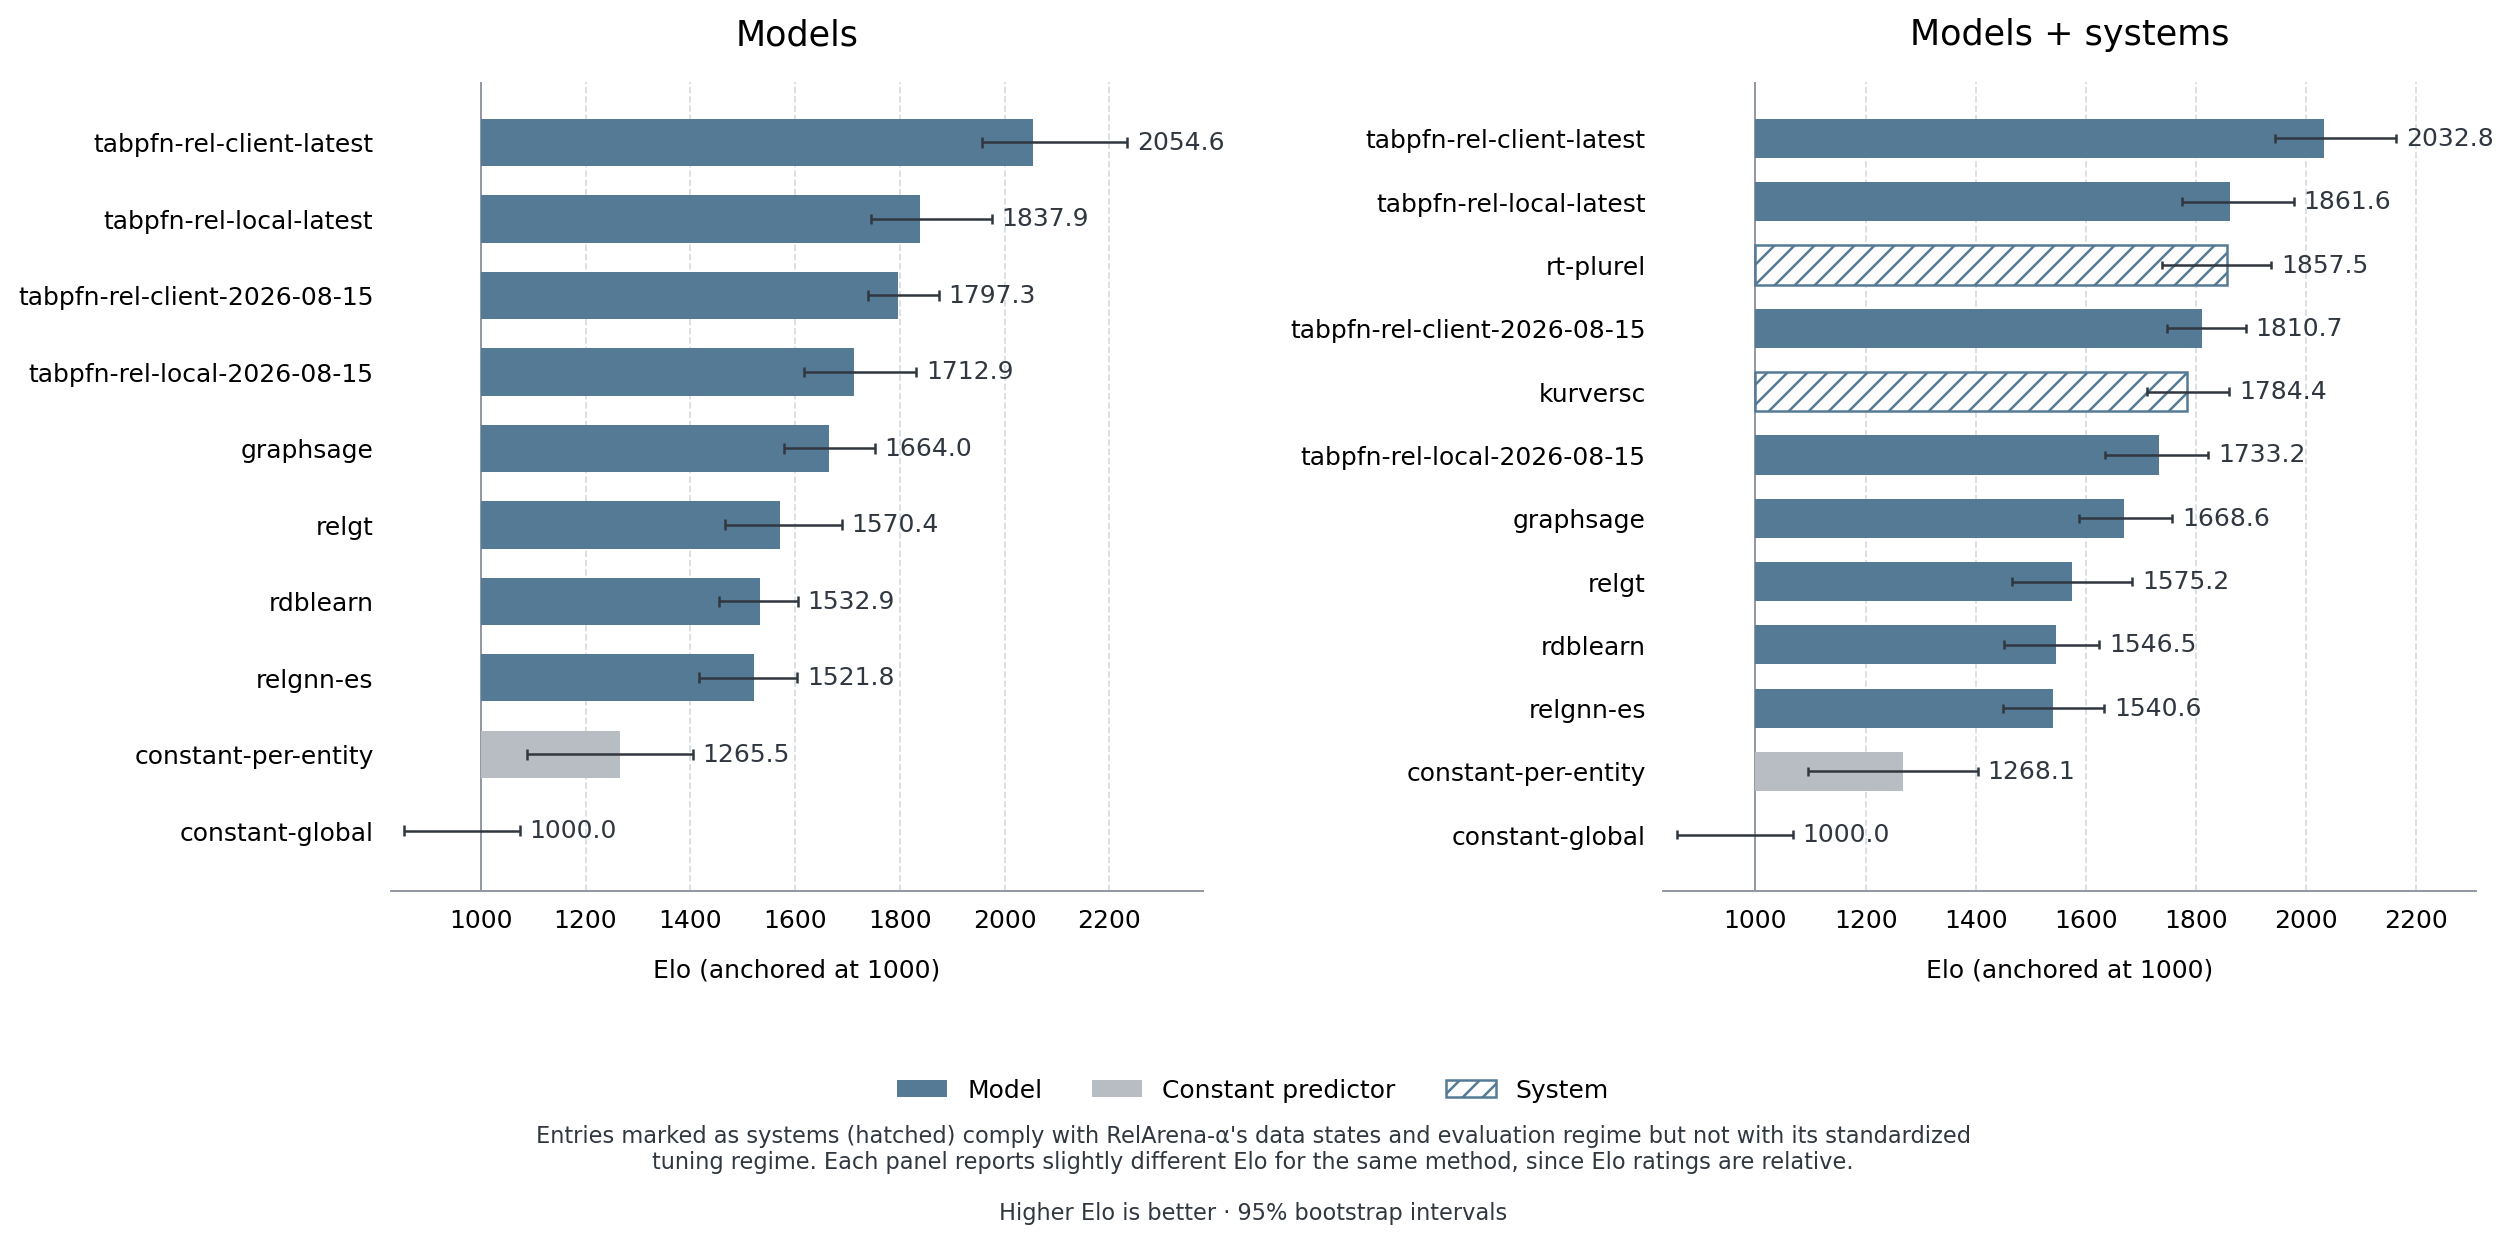
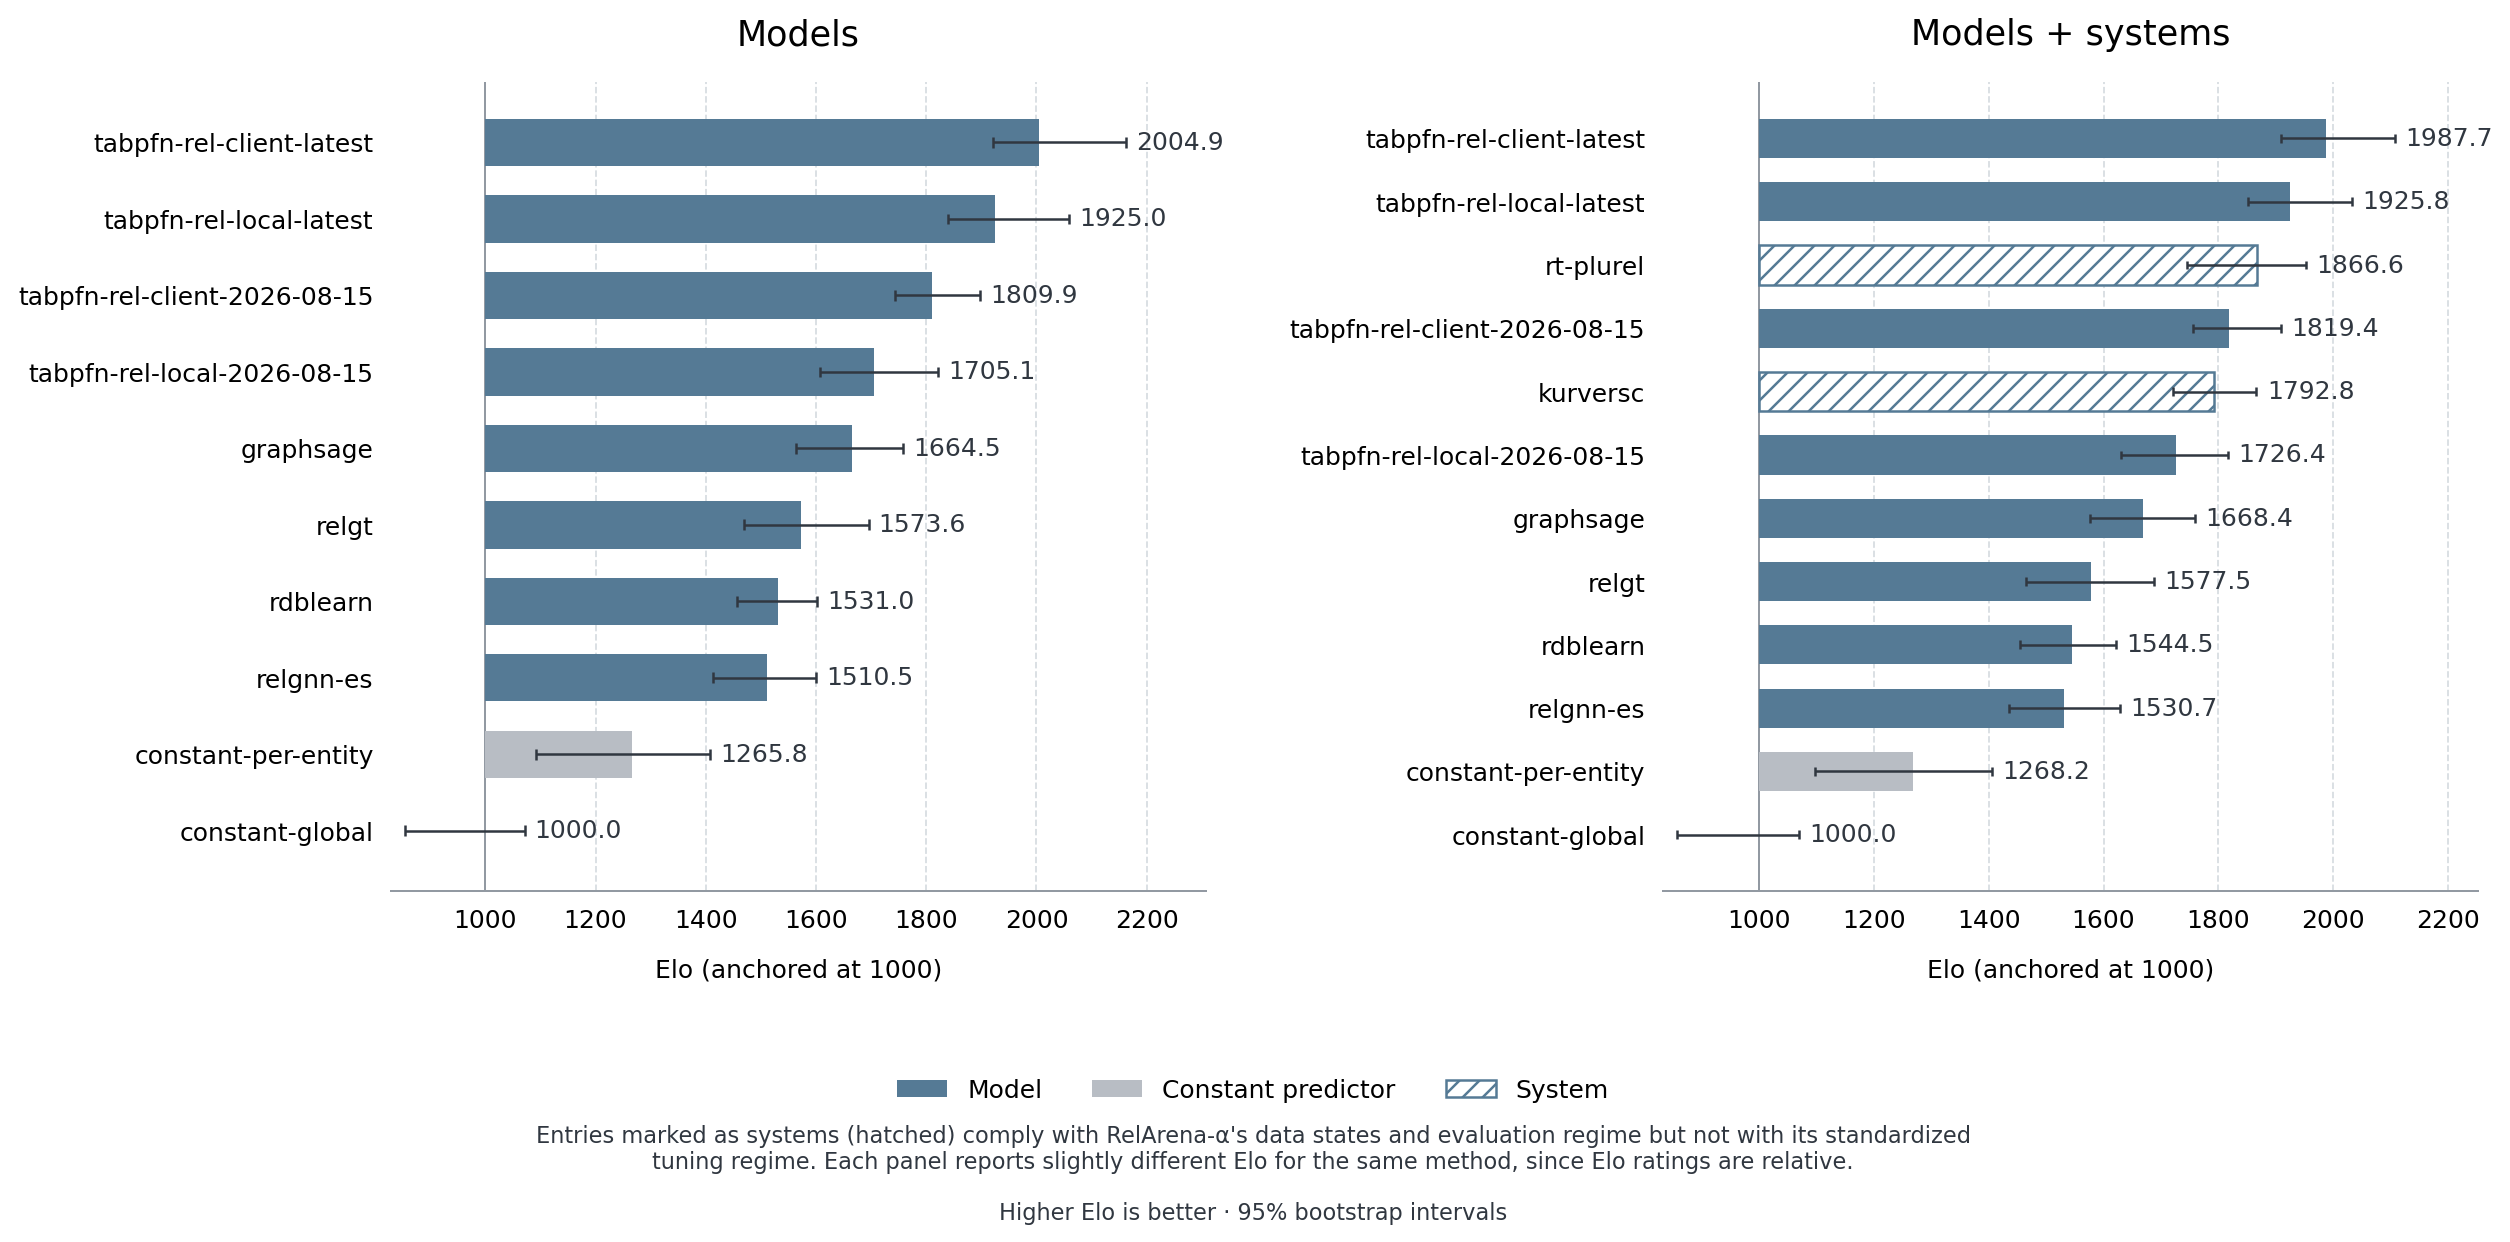
Update TabPFN-Rel results to use the fastdfs 1.2 feature cache
Rerun both 2026-09-28 submissions on the fastdfs 1.2 DFS cache with
tabpfn-rel 0.0.5 and regenerate the leaderboards.

diff --git a/README.md b/README.md
@@ -69,17 +69,17 @@ they do not measure variation across training seeds. The plots and tables show t
 
 | Rank | Method | Kind | Elo | 95% bootstrap interval |
 |---:|---|---|---:|---:|
-| 1 | tabpfn-rel-client-latest | Model | 2054.6 | 1957.1–2234.4 |
-| 2 | tabpfn-rel-local-latest | Model | 1837.9 | 1744.5–1975.4 |
-| 3 | tabpfn-rel-client-2026-08-15 | Model | 1797.3 | 1739.9–1874.6 |
-| 4 | tabpfn-rel-local-2026-08-15 | Model | 1712.9 | 1618.0–1831.7 |
-| 5 | graphsage | Model | 1664.0 | 1579.0–1753.2 |
-| 6 | relgt | Model | 1570.4 | 1465.4–1689.9 |
-| 7 | rdblearn | Model | 1532.9 | 1454.1–1605.5 |
-| 8 | relgnn-es | Model | 1521.8 | 1416.6–1604.5 |
-| 9 | lightgbm | Model | 1359.4 | 1220.8–1452.1 |
-| 10 | constant-per-entity | Model | 1265.5 | 1087.3–1404.9 |
-| 11 | constant-global | Model | 1000.0 | 853.5–1073.9 |
+| 1 | tabpfn-rel-client-latest | Model | 2004.9 | 1921.5–2163.0 |
+| 2 | tabpfn-rel-local-latest | Model | 1925.0 | 1839.3–2059.2 |
+| 3 | tabpfn-rel-client-2026-08-15 | Model | 1809.9 | 1743.8–1897.4 |
+| 4 | tabpfn-rel-local-2026-08-15 | Model | 1705.1 | 1606.6–1822.2 |
+| 5 | graphsage | Model | 1664.5 | 1563.9–1757.6 |
+| 6 | relgt | Model | 1573.6 | 1468.8–1695.3 |
+| 7 | rdblearn | Model | 1531.0 | 1457.1–1602.6 |
+| 8 | relgnn-es | Model | 1510.5 | 1413.1–1600.4 |
+| 9 | lightgbm | Model | 1360.0 | 1215.5–1471.3 |
+| 10 | constant-per-entity | Model | 1265.8 | 1091.3–1407.8 |
+| 11 | constant-global | Model | 1000.0 | 853.9–1071.7 |
 
 </details>
 
@@ -88,19 +88,19 @@ they do not measure variation across training seeds. The plots and tables show t
 
 | Rank | Method | Kind | Elo | 95% bootstrap interval |
 |---:|---|---|---:|---:|
-| 1 | tabpfn-rel-client-latest | Model | 2032.8 | 1943.7–2163.2 |
-| 2 | tabpfn-rel-local-latest | Model | 1861.6 | 1775.7–1978.0 |
-| 3 | rt-plurel | System | 1857.5 | 1739.4–1936.5 |
-| 4 | tabpfn-rel-client-2026-08-15 | Model | 1810.7 | 1748.0–1890.3 |
-| 5 | kurversc | System | 1784.4 | 1710.6–1860.6 |
-| 6 | tabpfn-rel-local-2026-08-15 | Model | 1733.2 | 1634.5–1822.6 |
-| 7 | graphsage | Model | 1668.6 | 1588.3–1756.5 |
-| 8 | relgt | Model | 1575.2 | 1465.7–1684.0 |
-| 9 | rdblearn | Model | 1546.5 | 1450.6–1624.2 |
-| 10 | relgnn-es | Model | 1540.6 | 1449.5–1633.2 |
-| 11 | lightgbm | Model | 1363.3 | 1224.5–1457.3 |
-| 12 | constant-per-entity | Model | 1268.1 | 1094.7–1403.5 |
-| 13 | constant-global | Model | 1000.0 | 857.6–1067.6 |
+| 1 | tabpfn-rel-client-latest | Model | 1987.7 | 1909.3–2107.7 |
+| 2 | tabpfn-rel-local-latest | Model | 1925.8 | 1852.1–2033.0 |
+| 3 | rt-plurel | System | 1866.6 | 1745.4–1953.3 |
+| 4 | tabpfn-rel-client-2026-08-15 | Model | 1819.4 | 1756.7–1909.1 |
+| 5 | kurversc | System | 1792.8 | 1720.8–1866.5 |
+| 6 | tabpfn-rel-local-2026-08-15 | Model | 1726.4 | 1630.2–1816.6 |
+| 7 | graphsage | Model | 1668.4 | 1577.2–1759.7 |
+| 8 | relgt | Model | 1577.5 | 1465.3–1688.3 |
+| 9 | rdblearn | Model | 1544.5 | 1454.2–1621.9 |
+| 10 | relgnn-es | Model | 1530.7 | 1434.8–1628.2 |
+| 11 | lightgbm | Model | 1363.8 | 1219.9–1469.0 |
+| 12 | constant-per-entity | Model | 1268.2 | 1096.7–1405.4 |
+| 13 | constant-global | Model | 1000.0 | 857.0–1069.3 |
 
 </details>
 

diff --git a/baseline_results/README.md b/baseline_results/README.md
@@ -70,7 +70,13 @@ specific snapshot.
 seed 0. They use depth 4, eight estimators, 200,000-row hard-pool contexts,
 pool inflation 4, and automatic hurdle regression at a 0.05 zero-rate threshold.
 The local submission uses native TF-IDF text processing and the API submission
-uses simple text processing. Each evaluates one default configuration.
+uses simple text processing. Each evaluates one default configuration. Both read
+their DFS features from a cache built with fastdfs 1.2 and ran with tabpfn-rel
+0.0.5.
+
+`rel-stack/user-badge` and `rel-stack/user-engagement` exceed the hosted API's
+production limit on training upload size, so the API submission ran those two
+tasks against a pre-release deployment of the same API with a higher limit.
 
 The local runs used TabPFN 9.0.0, tabpfn-extensions 0.6.3, and checkpoint
 `tabpfn-v3.5-20260909.safetensors` (SHA-256
